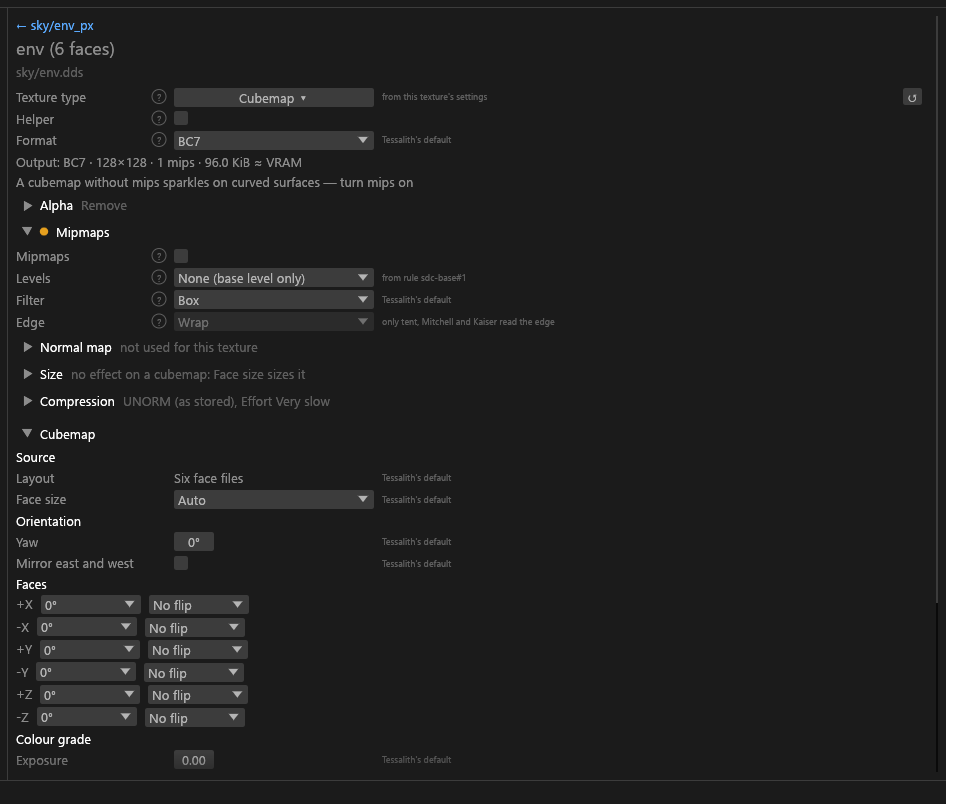
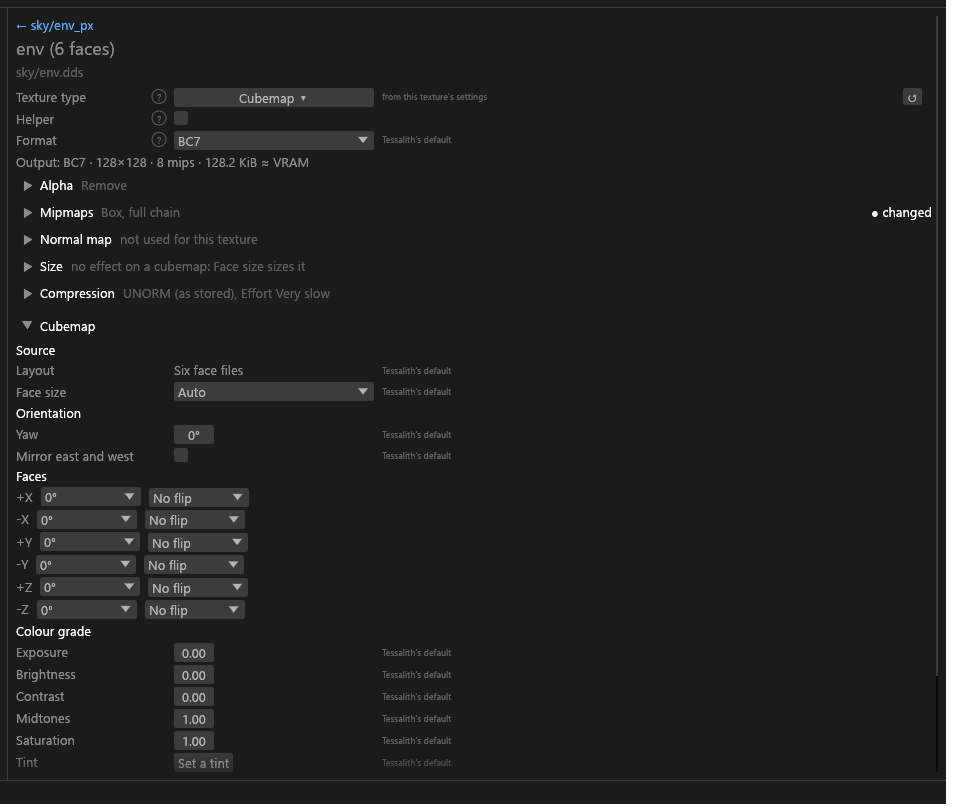
docs: place Used by and Sources, full-chain cube shot
Assisted-by: Claude Code

diff --git a/crates/gui/tests/doc_shots/scenarios.rs b/crates/gui/tests/doc_shots/scenarios.rs
@@ -453,6 +453,9 @@ fn cube_panel(dir: &Path) -> Frame {
             m.decide(f, Answer::Subtype(engine::config::Subtype::Cubemap));
             assert!(m.wait_idle(Duration::from_secs(60)));
         }
+        // A full chain, so no CUBE-NO-MIPS problem forces Mipmaps open beside the Cubemap group.
+        m.set_field("sky/env_px.png", "mips.levels", serde_json::json!("full"));
+        assert!(m.wait_idle(Duration::from_secs(60)));
         panel_groups::set_open(&mut m.settings, PanelGroup::Cubemap, true);
     });
     let r = reveal(&mut h, |h| {

diff --git a/docs/wiki/GUI-Texture-Panel.md b/docs/wiki/GUI-Texture-Panel.md
@@ -4,7 +4,7 @@ For anyone with one texture selected who wants to change how it encodes, or to a
 
 ## Reading the panel
 
-Each texture opens on what you check first: its name, its type, the output format and size, the meshes that use it, and its problems. Every other setting sits in a group below: **Alpha**, **Mipmaps**, **Normal map**, **Size**, **Compression**, then **Cubemap** or **Channels** where they apply. A closed group says what it holds (**Mipmaps** reads "Kaiser, full chain") and shows **● changed** when you set a value in it; open, its rows show the values. When you select a texture with a problem, the group that holds it opens, and **Go to** in Problems opens it at the setting. Tessalith remembers which groups you keep open, for every texture and project. <!-- D:JI3,LQ -->
+Each texture opens on what you check first: its name, its type, the output format and size, the meshes that use it, and its problems. Every other setting sits in a group below: **Alpha**, **Mipmaps**, **Normal map**, **Size**, **Compression**, then **Cubemap** or **Channels** where they apply. A closed group says what it holds (**Mipmaps** reads "Box, full chain"); open, its rows show the values. A group shows **● changed** when you set a value in it, open or closed. When you select a texture with a problem, the group that holds it opens, and **Go to** in Problems opens it at the setting. Tessalith remembers which groups you keep open, for every texture and project. <!-- D:JI3,LQ -->
 
 Each value says where it came from, for example "from sdc.toml", "suggested" or "from the meshes that use this texture". A line under Format gives the output format, size, mip count and VRAM; greyed options carry their reason on hover.
 
@@ -114,7 +114,7 @@ The Alpha row then reads *from the meshes that use this texture*. Your own choic
 
 ## Used by meshes
 
-After a [scan](Mod-Scanning.md), the list under the texture's heading, closed until you open it, reads **Used by {n} meshes** (**Used by 1 mesh**). It counts the NIF copies in the scan database that use the texture, so the number matches what a click can open. <!-- D:LM13 -->
+After a [scan](Mod-Scanning.md), the list under the texture's heading, above the **Texture type** row and closed until you open it, reads **Used by {n} meshes** (**Used by 1 mesh**). It counts the NIF copies in the scan database that use the texture, so the number matches what a click can open. <!-- D:LM13 -->
 
 - **A row** is one NIF in one mod: its path (the whole path on hover), then one line per copy, such as "{mod} · MO2 priority {p}" or "{mod} · BSA load rank {p}". A copy that loses to another mod's reads "(overridden by {mod})", with "at {root}" added when the winner has the same mod name in another root. <!-- D:LM13 -->
 - **An amber "decided the alpha" tag** marks a copy whose alpha settings decided what this texture's alpha means ([Alpha from the meshes](#alpha-from-the-meshes)). It looks at every copy, not only the listed ones. <!-- D:LM13 -->
@@ -142,7 +142,7 @@ A DDS input is left as it is and not written. **Re-encode this file** writes `re
 
 ## Where these settings come from
 
-To see what set a value (a built-in default, a preset, a rule, `sdc.toml`, the image analysis), open **Where these settings come from**, the folded section at the bottom of the panel. It lists every field of the texture with its value and its source, and puts the values that differ from the `sdc-base` preset in bold. Tick **Show only what differs from sdc-base** to hide the rest; the tick stays as you move between textures. The section is read-only; to change a value, use the rows above. <!-- D:JI3 --> How presets and rules stack: [Presets and targets](Presets-and-Targets.md).
+To see what set a value (a built-in default, a preset, a rule, `sdc.toml`, the image analysis), open **Where these settings come from**, the last group of the panel, below the other groups and closed until you open it. It lists every field of the texture with its value and its source, and puts the values that differ from the `sdc-base` preset in bold. Tick **Show only what differs from sdc-base** to hide the rest; the tick stays as you move between textures. The section is read-only; to change a value, use the rows above. <!-- D:JI3 --> How presets and rules stack: [Presets and targets](Presets-and-Targets.md).
 
 ## How edits are saved
 
